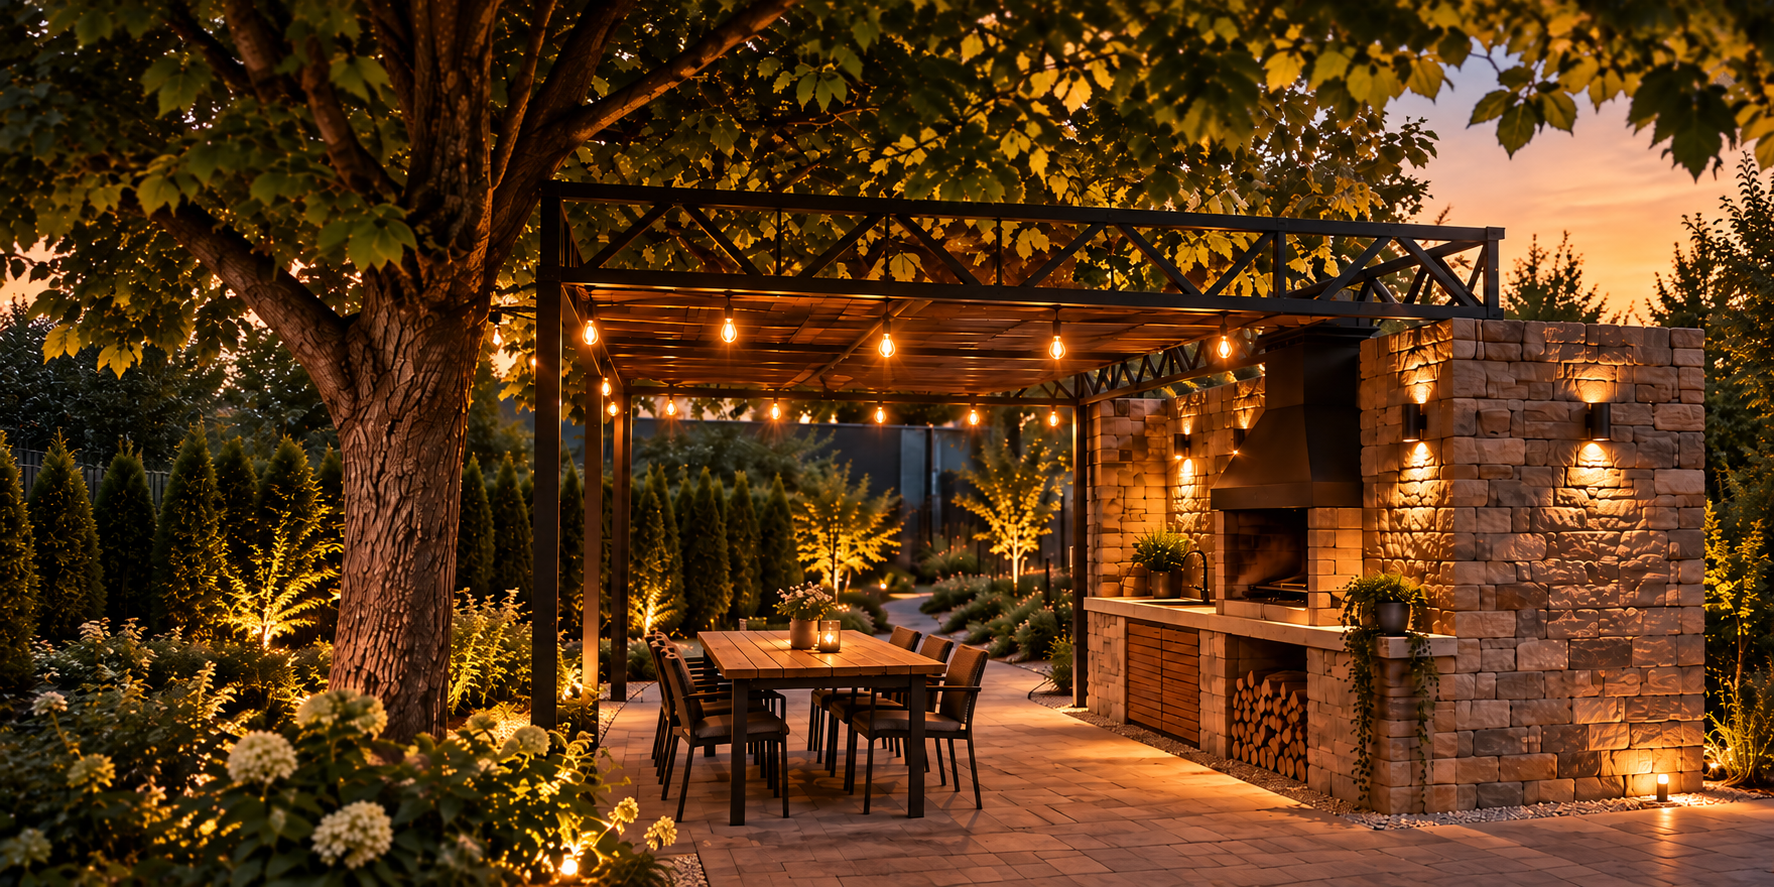
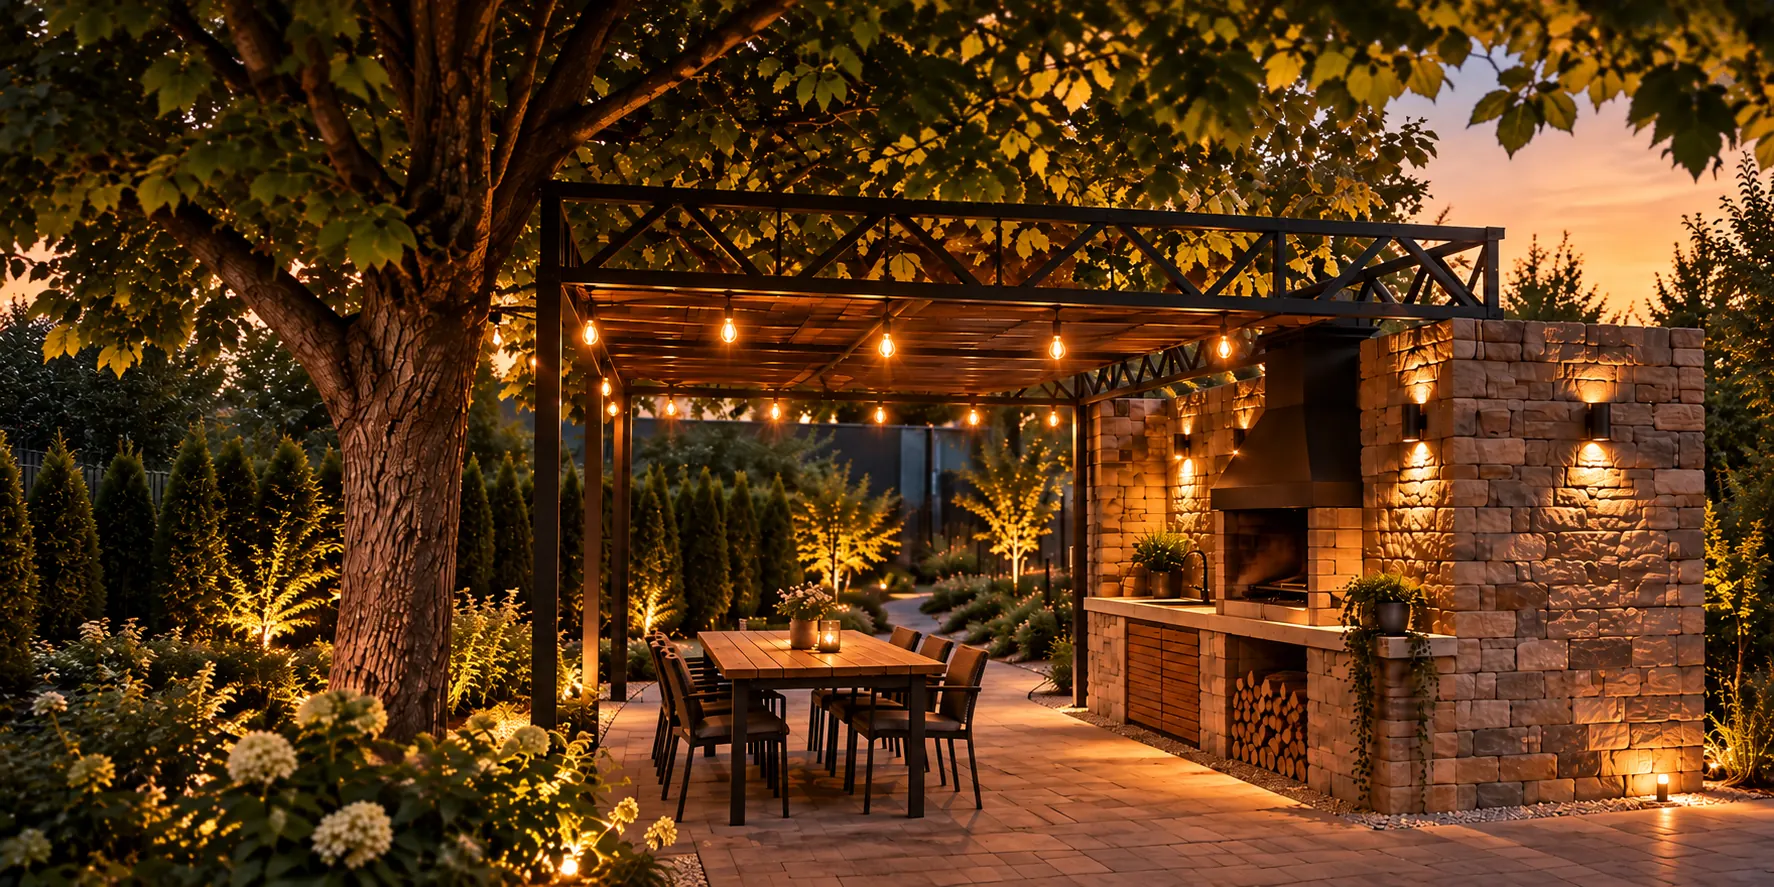
Optimize hero LCP, SEO metadata and calendar accessible names

diff --git a/index.html b/index.html
@@ -3,6 +3,26 @@
   <head>
     <meta charset="UTF-8" />
     <meta name="viewport" content="width=device-width, initial-scale=1.0" />
+    <meta
+      name="description"
+      content="Липа Lounge — бронювання спільної зони відпочинку. Переглядайте доступні дати та години й обирайте зручний час для відпочинку із сусідами."
+    />
+    <link
+      rel="preload"
+      as="image"
+      type="image/webp"
+      href="/images/lounge-header-mobile.webp"
+      media="(width < 768px)"
+      fetchpriority="high"
+    />
+    <link
+      rel="preload"
+      as="image"
+      type="image/webp"
+      href="/images/lounge-header.webp"
+      media="(width >= 768px)"
+      fetchpriority="high"
+    />
     <title>Lipa Lounge</title>
   </head>
   <body>

diff --git a/src/components/Calendar.tsx b/src/components/Calendar.tsx
@@ -216,7 +216,6 @@ export default function Calendar({
               key={date}
               type="button"
               className="calendar-day"
-              aria-label={`${fullDateFormatter.format(calendarDate(date))}${index === 0 ? ', сьогодні' : ''}, ${statusLabel}`}
               aria-pressed={selectedDate === date}
               tabIndex={selectedDate === date ? 0 : -1}
               onKeyDown={(event) => handleKeyDown(event, index)}
@@ -237,6 +236,9 @@ export default function Calendar({
               >
                 <span className="calendar-status-dot" aria-hidden="true" />
                 {statusLabel}
+              </span>
+              <span className="visually-hidden">
+                {fullDateFormatter.format(calendarDate(date))}
               </span>
             </button>
           )

diff --git a/src/App.css b/src/App.css
@@ -15,7 +15,7 @@
   background-color: #354333;
   background-image:
     linear-gradient(180deg, rgb(25 32 22 / 20%), rgb(25 32 22 / 78%)),
-    url('/images/lounge-header.webp');
+    url('/images/lounge-header-mobile.webp');
   background-size: cover;
   background-position: 60% center;
   color: #fffefa;
@@ -45,6 +45,9 @@
     margin-inline: 0;
     padding: 2.5rem;
     border-radius: 1rem;
+    background-image:
+      linear-gradient(180deg, rgb(25 32 22 / 20%), rgb(25 32 22 / 78%)),
+      url('/images/lounge-header.webp');
     background-position: center;
   }
 }
